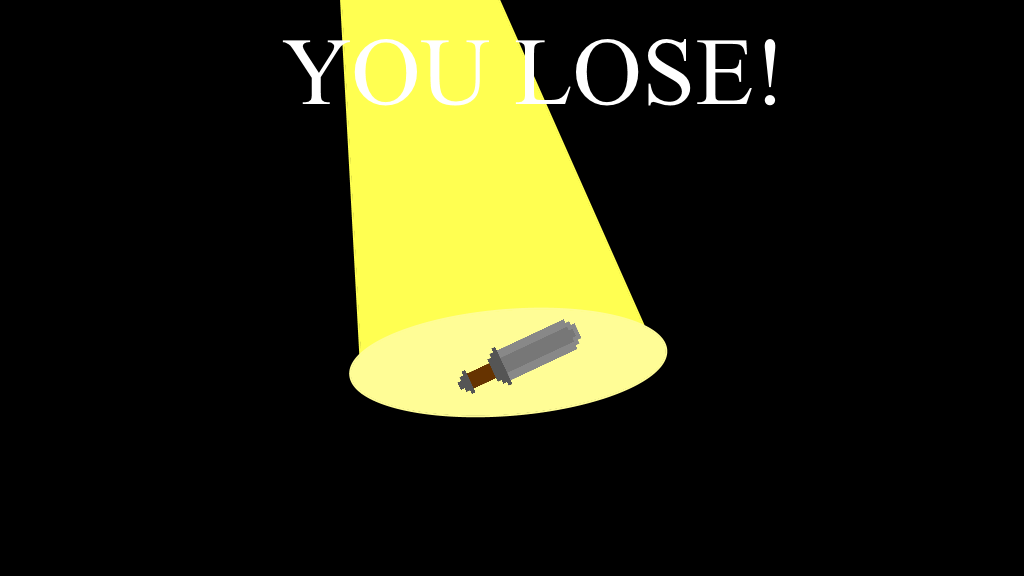
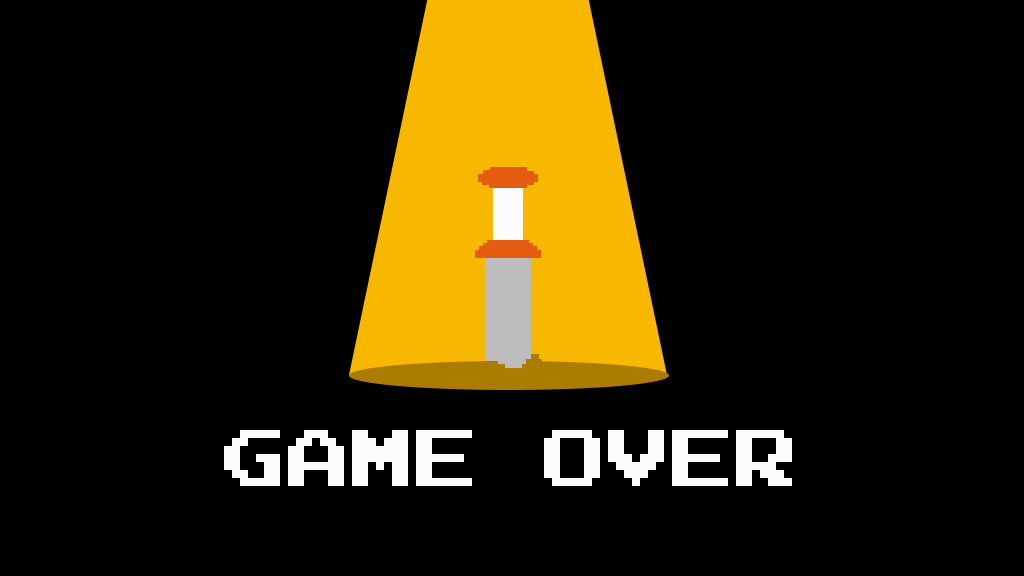
Progress toward better overlays and game state controls

Changed region(s): [[0.2188, 0.0, 0.7812, 0.8438], [0.5312, 0.7188, 0.7812, 0.8438]]

diff --git a/EnergyFalcon/src/EnergyFalcon.java b/EnergyFalcon/src/EnergyFalcon.java
@@ -16,8 +16,8 @@ public class EnergyFalcon extends Game {
 	private GameState state = GameState.START;
 	private Player p;
 	private GenericEnemy e;
-	private GameMaster game;
 	private Wall[] walls;
+	private Image win, lose;
 	
 	java.applet.AudioClip clip = java.applet.Applet.newAudioClip(this.getClass().getResource("background.wav"));
 	java.applet.AudioClip noise = java.applet.Applet.newAudioClip(this.getClass().getResource("covermusic.wav"));
@@ -27,7 +27,6 @@ public class EnergyFalcon extends Game {
 
 		p = new Player();
 		e = new GenericEnemy(p);
-		game = new GameMaster(p, e);
 		walls = new Wall[4];
 		
 		walls[Wall.LEFT_WALL] = new Wall(0,0,80, Game.HEIGHT, Wall.LEFT_WALL);
@@ -37,8 +36,10 @@ public class EnergyFalcon extends Game {
 		
 		
 		try {
-			cover = ImageIO.read(this.getClass().getResource("cover.jpg"));
+			cover = ImageIO.read(this.getClass().getResource("cover.png"));
 			background = ImageIO.read(this.getClass().getResource("ArenaFix.png")).getScaledInstance(Game.WIDTH, Game.HEIGHT, 0);
+			win = ImageIO.read(this.getClass().getResource("Victory Screen.png")).getScaledInstance(Game.WIDTH, Game.HEIGHT, 0);
+			lose = ImageIO.read(this.getClass().getResource("Defeat Screen.png")).getScaledInstance(Game.WIDTH, Game.HEIGHT, 0);
 		} catch (IOException e) {
 			e.printStackTrace();
 		}
@@ -74,19 +75,26 @@ public class EnergyFalcon extends Game {
 			
 			p.draw(graphics);
 			e.draw(graphics);
-
-			game.draw(graphics);
+			
+			
+			if(p.getPlayerHealth() <= 0){
+				state = GameState.DEFEAT;
+			}
+			
+			if(e.getEnemyHealth() <= 0){
+				state = GameState.VICTORY;
+			}
 			break;
 		case DEFEAT:
+			graphics.drawImage(lose,0,0,null);
 			break;
 		case VICTORY:
+			graphics.drawImage(win,0,0,null);
 			break;
 		default:
 			break;
-		
 		}
-	}
-	
+		}
 	private void init(){
 		noise.stop();
 		clip.loop();
